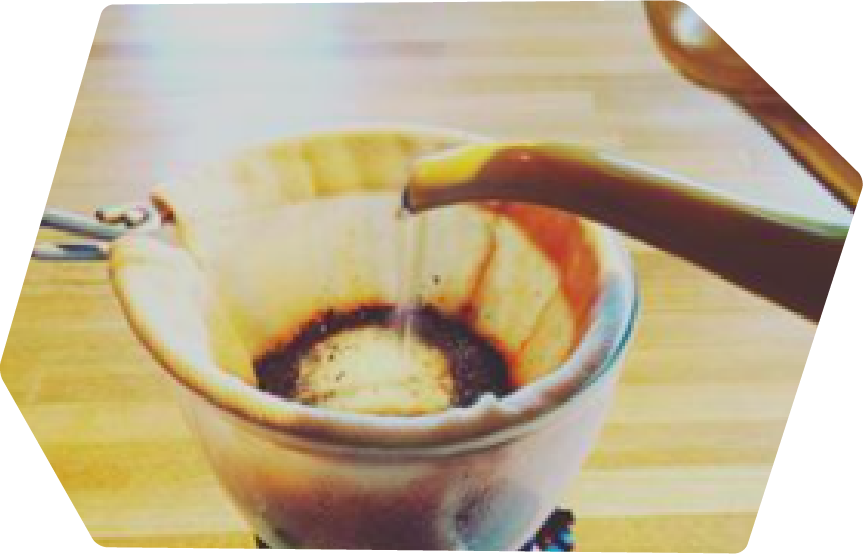
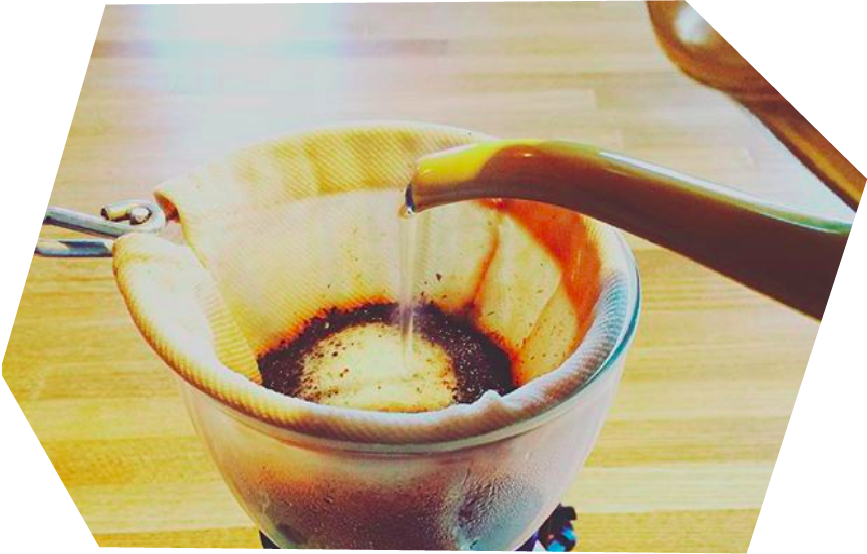
fb修正1

diff --git a/style.css b/style.css
@@ -12,6 +12,10 @@
     color: #0f0000;
 }
 
+p{
+    letter-spacing: 0.2em;
+}
+
 .wrapper {
     background-color: #f1f1f1;
 }
@@ -448,17 +452,18 @@ li a:hover + .animation {
     -o-transform: translate(0, -78px);
     transform: translate(0, -78px);
   position: relative;
+    overflow: hidden;
   z-index: 0;
 }
 
 .hero:before{
   content: '';
   background: inherit;/*.bgImageで設定した背景画像を継承する*/
-  -webkit-filter: blur(1px)saturate(85%);
-  -moz-filter: blur(1px)saturate(85%);
-  -o-filter: blur(1px)saturate(85%);
-  -ms-filter: blur(1px)saturate(85%);
-  filter: blur(1px)saturate(85%);
+  -webkit-filter: blur(3px)saturate(85%);
+  -moz-filter: blur(3px)saturate(85%);
+  -o-filter: blur(3px)saturate(85%);
+  -ms-filter: blur(3px)saturate(85%);
+  filter: blur(3px)saturate(85%);
   position: absolute;
   /*ブラー効果で画像の端がボヤけた分だけ位置を調整*/
   top: -5px;
@@ -473,7 +478,7 @@ li a:hover + .animation {
     position: absolute;
     width: 50%;
     max-width: 600px;
-    top: 48vh;
+    top: 50vh;
     left: 50vw;
     z-index: 10;
     -webkit-transform: translate(-50%, -50%);
@@ -1218,7 +1223,7 @@ footer h5 {
     }
 
     #news .fb-container {
-        width: 90%;
+        width: 75%;
         max-width: 500px;
     }
 
